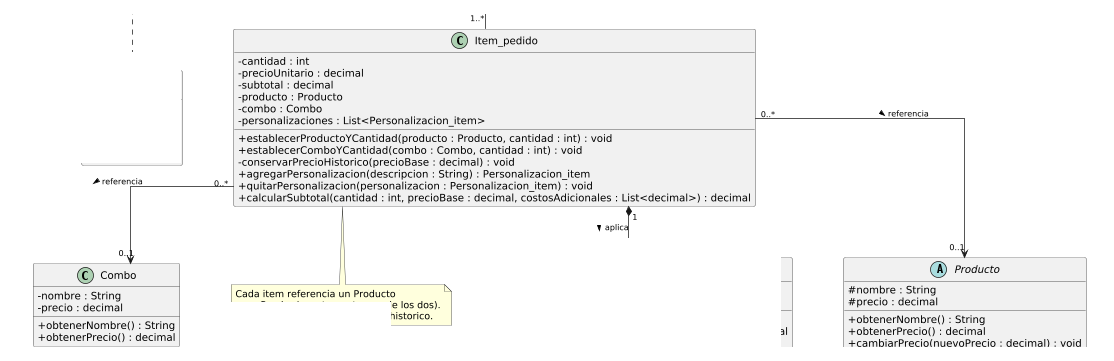
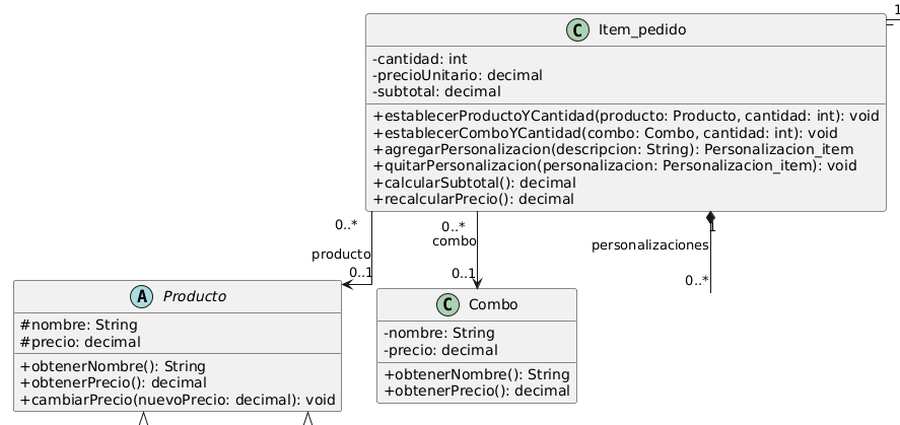
feat: agrego diagrama de clases final, anexos de pilares POO y happy path global

diff --git a/anexos/analisis-funcional/happy-path-global.md b/anexos/analisis-funcional/happy-path-global.md
@@ -12,12 +12,13 @@
 
 - UsuarioMostrador
 - UsuarioCocina
-- SistemaPedidos
+- ServicioPedidos
 - PantallaCocina
 - ProcesadorPago
 - Pedido
 - Item_pedido
-- Producto (ProductoPreparado)
+- ProductoPreparado (subclase de Producto)
+- ProductoEnvasado (subclase de Producto)
 - Combo
 - Personalizacion_item
 - Pago
@@ -25,6 +26,7 @@
 - Historial_cambio_pedido
 - Estado_pedido
 - Metodo_pago
+- Tipo_movimiento
 
 ---
 
@@ -39,46 +41,54 @@ INICIO Sistema de Pedidos - Happy Path Global
 
 // Un cliente llega al mostrador y el usuario de mostrador abre un pedido nuevo.
 UsuarioMostrador mostrador = nuevo UsuarioMostrador("Laura", "lparedes", "hash123", verdadero, 2)
-SistemaPedidos sistema = nuevo SistemaPedidos()
+ServicioPedidos servicio = nuevo ServicioPedidos()
 PantallaCocina pantallaCocina = nuevo PantallaCocina()
 ProcesadorPago procesador = nuevo ProcesadorPago()
 
-// El sistema genera el número único y registra la fecha y hora (RF6).
-Pedido pedido = sistema.iniciarNuevoPedido()
-numeroPedido = 1042            // número único asignado por el sistema
-fechaHora = fechaHoraActual    // fecha y hora de registro
+// El sistema crea el pedido, genera el número único y registra la fecha y hora (RF6).
+Pedido pedido = servicio.iniciarNuevoPedido()
+numeroPedido = 1042                // número único generado por el servicio
+pedido.asignarIdentificador(numeroPedido, fechaHoraActual)
 
 // El cliente pide un nombre para el llamado al retirar.
-sistema.ingresarReferenciaRetiro("Carla")
+servicio.ingresarReferenciaRetiro("Carla")
+pedido.asignarReferenciaRetiro("Carla")
 
 // El cliente elige una hamburguesa (producto preparado) y un combo; el combo usa su precio propio (RF1).
 ProductoPreparado hamburguesa = nuevo ProductoPreparado("Hamburguesa completa", 5500.00, 12)
 Combo comboFamiliar = nuevo Combo("Combo familiar", 14000.00)
-sistema.seleccionarProducto(hamburguesa, 1)
-sistema.seleccionarCombo(comboFamiliar, 1)
+servicio.seleccionarProducto(hamburguesa, 1)
+servicio.seleccionarCombo(comboFamiliar, 1)
+Item_pedido itemHamburguesa = pedido.agregarItem(hamburguesa, 1)
+Item_pedido itemCombo = pedido.agregarItemCombo(comboFamiliar, 1)
 
 // La hamburguesa se pide con un ingrediente extra, que suma un costo adicional.
-sistema.ingresarPersonalizacion("Extra queso")
+servicio.ingresarPersonalizacion("Extra queso")
+Personalizacion_item extra = itemHamburguesa.agregarPersonalizacion("Extra queso")
+costoExtra = extra.calcularCosto()
 
 // Cada ítem calcula su subtotal y el pedido recalcula el total.
-total = pedido.obtenerTotal()
+itemHamburguesa.calcularSubtotal()
+itemCombo.calcularSubtotal()
+total = pedido.actualizarTotal()
 
 // El cliente prefiere pagar por transferencia: se valida el medio antes de cobrar (RF8).
 medio = Metodo_pago.TRANSFERENCIA
 medioValido = procesador.validarMedioPago(medio)
 SI medioValido ENTONCES
+    cobroAprobado = procesador.procesarCobro(medio, total)
     Pago pago = nuevo Pago(total, medio, fechaHoraActual)
-    cobroAprobado = pago.registrarCobro(medio, total)
-    pedido.asociarPago(pago)
+    pago.registrarCobro(medio, total)
+    Historial_pago historialPago = nuevo Historial_pago()
+    historialPago.registrarMovimiento(pago, Tipo_movimiento.COBRO_INICIAL, total, "Cobro del pedido", mostrador)
 FIN SI
 
-// El pedido queda registrado como RECIBIDO y se envía a la pantalla de Cocina (RF2).
-listaItems = ítems cargados en el pedido (hamburguesa y combo)
-registrado = pedido.registrarPedido(numeroPedido, fechaHora, "Carla", listaItems, total, pago)
-estadoActual = Estado_pedido.RECIBIDO
-pantallaCocina.enviarCabeceraPedido(numeroPedido, fechaHora, "Carla")
-pantallaCocina.enviarDetallePedido(listaItems, total)
-confirmado = pantallaCocina.informarPedidoConfirmado(numeroPedido)
+// El pedido queda confirmado en estado RECIBIDO y se envía a la pantalla de Cocina (RF2).
+confirmado = servicio.confirmarPedido(medio)
+estadoActual = pedido.obtenerEstado()          // Estado_pedido.RECIBIDO
+pantallaCocina.enviarCabeceraPedido(numeroPedido, fechaHoraActual, "Carla")
+pantallaCocina.enviarDetallePedido(pedido.obtenerDetalle(), total)
+pantallaCocina.informarPedidoConfirmado(numeroPedido)
 
 // ============================================================
 // CU2 - Modificar Pedido (el pedido sigue en estado RECIBIDO)
@@ -88,18 +98,21 @@ confirmado = pantallaCocina.informarPedidoConfirmado(numeroPedido)
 // Solo se puede modificar mientras el estado es RECIBIDO.
 SI estadoActual == Estado_pedido.RECIBIDO ENTONCES
     mostrador.modificarPedido(pedido)
-    Producto bebida = nuevo ProductoEnvasado("Gaseosa 500 cc", 1800.00, fechaElaboracion, fechaVencimiento)
+    servicio.modificarPedido(numeroPedido)
+    pedido.modificar()
+
+    ProductoEnvasado bebida = nuevo ProductoEnvasado("Gaseosa 500 cc", 1800.00, fechaElaboracion, fechaVencimiento)
     pedido.agregarItem(bebida, 1)
 
     // El sistema recalcula el total y obtiene la diferencia contra lo ya abonado (RF8).
-    totalNuevo = pedido.obtenerTotal()
+    totalNuevo = pedido.actualizarTotal()
     diferencia = pago.calcularDiferencia(totalNuevo)
 
     // La diferencia es a favor del negocio: se cobra y queda registrada para auditoría.
     SI diferencia > 0 ENTONCES
         procesador.validarMedioPago(Metodo_pago.EFECTIVO)
-        pago.registrarCobro(Metodo_pago.EFECTIVO, diferencia)
-        Historial_pago historialPago = nuevo Historial_pago()
+        procesador.procesarCobro(Metodo_pago.EFECTIVO, diferencia)
+        pago.registrarCobroAdicional(Metodo_pago.EFECTIVO, diferencia)
         historialPago.registrarMovimiento(pago, Tipo_movimiento.AJUSTE, diferencia, "Se agregó una bebida", mostrador)
     FIN SI
 
@@ -114,17 +127,27 @@ FIN SI
 
 // Cocina toma el pedido y empieza a prepararlo: pasa de RECIBIDO a EN_PREPARACION (RF3).
 UsuarioCocina cocina = nuevo UsuarioCocina("Mario", "mrios", "hash456", verdadero, "Parrilla")
-cocina.comenzarPreparacion(pedido)
-hamburguesa.iniciarPreparacion()
+transicionValida = pedido.validarTransicion(Estado_pedido.EN_PREPARACION, cocina)
+SI transicionValida ENTONCES
+    servicio.solicitarCambioEstado(numeroPedido, Estado_pedido.EN_PREPARACION, cocina)
+    cocina.iniciarPreparacion(pedido)
+    pedido.cambiarEstado(Estado_pedido.EN_PREPARACION)
+    historialCambios.registrarCambioEstado(pedido, Estado_pedido.RECIBIDO, Estado_pedido.EN_PREPARACION, cocina)
+    hamburguesa.iniciarPreparacion()
+FIN SI
 
 // Cuando termina la elaboración, Cocina lo marca como LISTO.
 cocina.marcarPedidoListo(pedido)
+pedido.cambiarEstado(Estado_pedido.LISTO)
+historialCambios.registrarCambioEstado(pedido, Estado_pedido.EN_PREPARACION, Estado_pedido.LISTO, cocina)
 
 // El usuario de mostrador llama a "Carla", le entrega el pedido y lo marca como ENTREGADO.
 mostrador.marcarComoEntregado(pedido)
+pedido.cambiarEstado(Estado_pedido.ENTREGADO)
+historialCambios.registrarCambioEstado(pedido, Estado_pedido.LISTO, Estado_pedido.ENTREGADO, mostrador)
 
 // Estado final del sistema: el pedido queda guardado con todo su historial, pagos y cambios.
-Retornar Estado_pedido.ENTREGADO
+Retornar pedido.obtenerEstado()                // Estado_pedido.ENTREGADO
 
 FIN
 ```
@@ -135,6 +158,6 @@ FIN
 
 | Bloque | Caso de uso | Clases involucradas | Diagrama de secuencia de referencia |
 |--------|-------------|---------------------|-------------------------------------|
-| Registro del pedido, cobro y envío a Cocina | CU1 | UsuarioMostrador, SistemaPedidos, Pedido, Item_pedido, Producto, Combo, Personalizacion_item, Pago, ProcesadorPago, PantallaCocina | [Secuencia - Tomar Pedido](../../diagramas/05-diagramas-secuencia/05-secuencia-tomar-pedido-registro-de-pedido-01.png) |
-| Modificación del pedido, cobro de la diferencia y registro de cambios | CU2 | UsuarioMostrador, Pedido, Item_pedido, Producto, Pago, ProcesadorPago, Historial_pago, Historial_cambio_pedido | [Secuencia - Modificar Pedido](../../diagramas/05-diagramas-secuencia/05-secuencia-modificar-pedido-modificacion-recibido-02.png) |
-| Preparación, listo y entrega | CU4 | UsuarioCocina, UsuarioMostrador, Pedido, ProductoPreparado, Estado_pedido | [Secuencia - Cambiar Estado de Pedido](../../diagramas/05-diagramas-secuencia/05-secuencia-cambiar-estado-pedido-avance-preparacion-04.png) |
+| Registro del pedido, cobro y envío a Cocina | CU1 | UsuarioMostrador, ServicioPedidos, Pedido, Item_pedido, ProductoPreparado, Combo, Personalizacion_item, Pago, Historial_pago, ProcesadorPago, PantallaCocina | [Secuencia - Tomar Pedido](../../diagramas/05-diagramas-secuencia/05-secuencia-tomar-pedido-registro-de-pedido-01.png) |
+| Modificación del pedido, cobro de la diferencia y registro de cambios | CU2 | UsuarioMostrador, ServicioPedidos, Pedido, ProductoEnvasado, Pago, ProcesadorPago, Historial_pago, Historial_cambio_pedido | [Secuencia - Modificar Pedido](../../diagramas/05-diagramas-secuencia/05-secuencia-modificar-pedido-modificacion-recibido-02.png) |
+| Preparación, listo y entrega | CU4 | UsuarioCocina, UsuarioMostrador, ServicioPedidos, Pedido, ProductoPreparado, Estado_pedido, Historial_cambio_pedido | [Secuencia - Cambiar Estado de Pedido](../../diagramas/05-diagramas-secuencia/05-secuencia-cambiar-estado-pedido-avance-preparacion-04.png) |

diff --git a/anexos/analisis-funcional/pilares-poo.md b/anexos/analisis-funcional/pilares-poo.md
@@ -10,7 +10,7 @@ Este anexo analiza cómo el diagrama de clases final del Sistema de Pedidos ([ve
 
 **Ejemplo 1 — Pedido:**
 
-`Pedido` declara `total` y `items` como atributos privados y mantiene `actualizarTotal(subtotal)` como método privado. Hacia afuera solo expone `agregarItem`, `agregarItemCombo` y `obtenerTotal()`. Ninguna otra clase puede fijar el total a mano: el valor se recalcula siempre que cambia un ítem. Esto protege el RF1, que exige que el precio total se recalcule de forma precisa al registrar el pedido, y evita que `UsuarioMostrador` o la pantalla guarden un total que no coincide con la suma de los subtotales.
+`Pedido` declara todos sus atributos como privados (`fechaHora`, `numeroPedido`, `referenciaRetiro`, `estado`, `prioritario` y `total`). Hacia afuera solo expone métodos públicos que controlan cada cambio: `agregarItem`, `agregarItemCombo`, `actualizarTotal()`, `priorizar()`, `validarTransicion(nuevoEstado, actor)` y `cambiarEstado(nuevoEstado)`. Ninguna otra clase puede fijar el total ni el estado a mano: el total se recalcula con `actualizarTotal()` cuando cambia un ítem, y el estado solo cambia si `validarTransicion` lo permite. Esto protege el RF1, que exige que el precio total se recalcule de forma precisa al registrar el pedido, y evita que `UsuarioMostrador`, `UsuarioCocina` o el `ServicioPedidos` dejen un pedido con un total que no coincide con la suma de los subtotales o con un estado que salta pasos del flujo.
 
 ![Encapsulamiento - Ejemplo 1](../../diagramas/01-diagrama-clases/capturas-pilares/poo-encapsulamiento-ejemplo-1.png)
 
@@ -26,15 +26,15 @@ Este anexo analiza cómo el diagrama de clases final del Sistema de Pedidos ([ve
 
 **Definición:** La herencia permite que una clase (subclase) reutilice los atributos y métodos de otra más general (superclase) y agregue solo lo que la distingue.
 
-**Ejemplo 1 — Producto → ProductoPreparado:**
+**Ejemplo 1 — Producto → ProductoPreparado (y ProductoEnvasado):**
 
 `ProductoPreparado` hereda de la clase abstracta `Producto` los atributos `nombre` y `precio` y los métodos `obtenerNombre()`, `obtenerPrecio()` y `cambiarPrecio(nuevoPrecio)`. Solo agrega `tiempoPreparacion` e `iniciarPreparacion()`. La otra subclase, `ProductoEnvasado`, agrega `fechaElaboracion` y `fechaVencimiento`. La jerarquía es correcta porque todos los productos se venden con nombre y precio, pero se diferencian en cómo se obtienen: los preparados requieren elaboración en cocina y los envasados vienen listos.
 
 ![Herencia - Ejemplo 1](../../diagramas/01-diagrama-clases/capturas-pilares/poo-herencia-ejemplo-1.png)
 
-**Ejemplo 2 — Usuario → UsuarioMostrador:**
+**Ejemplo 2 — Usuario → UsuarioMostrador (UsuarioCocina y UsuarioEncargado):**
 
-`UsuarioMostrador` hereda de `Usuario` las credenciales (`nombre`, `usuario`, `passwordHash`, `activo`) y el método `autentificar`, y agrega `numeroCaja` junto con `registrarPedido()`, `modificarPedido(pedido)` y `marcarComoEntregado(pedido)`. `UsuarioCocina` y `UsuarioEncargado` heredan de la misma superclase. Lo que comparten es la identidad del personal que accede al sistema, y cada rol suma las operaciones que le corresponden.
+`UsuarioMostrador` hereda de `Usuario` las credenciales (`nombre`, `usuario`, `passwordHash`, `activo`) y el método `autentificar`, y agrega `numeroCaja` junto con `registrarPedido()`, `modificarPedido(pedido)` y `marcarComoEntregado(pedido)`. `UsuarioCocina` (`estacionTrabajo`, `iniciarPreparacion(pedido)`, `marcarPedidoListo(pedido)`) y `UsuarioEncargado` (`claveSupervision`, `autorizarCancelacion()`, `validarClaveSupervision(clave)`) heredan de la misma superclase. Lo que comparten es la identidad del personal que accede al sistema, y cada rol suma las operaciones que le corresponden.
 
 ![Herencia - Ejemplo 2](../../diagramas/01-diagrama-clases/capturas-pilares/poo-herencia-ejemplo-2.png)
 
@@ -44,15 +44,15 @@ Este anexo analiza cómo el diagrama de clases final del Sistema de Pedidos ([ve
 
 **Definición:** El polimorfismo permite que objetos de distintas clases respondan al mismo mensaje, cada uno a su manera, de modo que quien los usa no necesita conocer su clase concreta.
 
-**Ejemplo 1 — obtenerPrecio() en Producto vs Combo:**
+**Ejemplo 1 — obtenerPrecio() en Producto vs Combo (con Item_pedido):**
 
-Tanto `Producto` como `Combo` responden a `obtenerNombre()` y `obtenerPrecio()`, y `Item_pedido` los usa de la misma forma, ya que referencia uno u otro (exactamente uno de los dos). El comportamiento difiere: `Producto` devuelve su precio base, mientras que `Combo` devuelve su precio propio, que según el RF1 no es la suma de sus partes. En este diagrama `Combo` no hereda de `Producto`, por lo que se trata de polimorfismo por contrato común y no por jerarquía. Una mejora futura sería extraer una interfaz compartida.
+Tanto `Producto` como `Combo` responden a `obtenerNombre()` y `obtenerPrecio()`, y `Item_pedido` los usa de la misma forma, ya que referencia uno u otro (multiplicidad 0..1 hacia cada uno, y exactamente uno de los dos por ítem). El comportamiento difiere: `Producto` devuelve su precio base, mientras que `Combo` devuelve su precio propio, que según el RF1 no es la suma de sus partes. `Item_pedido` lo refleja con `establecerProductoYCantidad` y `establecerComboYCantidad`, y `Pedido` con `agregarItem` y `agregarItemCombo`. En este diagrama `Combo` no hereda de `Producto`, por lo que se trata de polimorfismo por contrato común (mismos mensajes, respuesta propia de cada clase) y no por jerarquía. Una mejora futura sería extraer una interfaz compartida.
 
 ![Polimorfismo - Ejemplo 1](../../diagramas/01-diagrama-clases/capturas-pilares/poo-polimorfismo-ejemplo-1.png)
 
-**Ejemplo 2 — autentificar() y el atributo usuario : Usuario en Auditoria_pedido:**
+**Ejemplo 2 — el parámetro Usuario en Auditoria_pedido.registrarAccion() y Pedido.validarTransicion():**
 
-`Auditoria_pedido`, `Historial_cambio_pedido` e `Historial_pago` guardan al responsable de la acción como un `Usuario`. En ese atributo puede haber un `UsuarioMostrador`, un `UsuarioCocina` o un `UsuarioEncargado`, y las tres clases de registro funcionan igual sin saber de qué subclase se trata, porque todos comparten el tipo `Usuario`. Así, el mismo método `registrarAccion(pedido, usuario, accion, fechaHora)` sirve para una cancelación iniciada por el mostrador o por el encargado.
+`Auditoria_pedido.registrarAccion(pedido, responsable: Usuario, autorizante: UsuarioEncargado)` y `Pedido.validarTransicion(nuevoEstado, actor: Usuario)` reciben un `Usuario` sin importar su subclase. Allí puede llegar un `UsuarioMostrador`, un `UsuarioCocina` o un `UsuarioEncargado`, y el mismo método responde según quién es el actor: la validación permite o rechaza la transición de estado según el rol, y la auditoría guarda a quien realizó la acción. Es polimorfismo de subtipo: un único método sirve para las tres subclases sin conocer cuál es.
 
 ![Polimorfismo - Ejemplo 2](../../diagramas/01-diagrama-clases/capturas-pilares/poo-polimorfismo-ejemplo-2.png)
 
@@ -64,12 +64,12 @@ Tanto `Producto` como `Combo` responden a `obtenerNombre()` y `obtenerPrecio()`,
 
 **Ejemplo 1 — Producto:**
 
-`Producto` es una clase abstracta que modela la idea de artículo del catálogo con solo `nombre` y `precio`, y oculta si se trata de algo preparado en cocina o de algo envasado. `Item_pedido` solo necesita pedirle `obtenerNombre()` y `obtenerPrecio()` para calcular su subtotal; no le importa cómo se elaboró el artículo. Esa simplificación evita que la lógica del pedido dependa de cada tipo de producto.
+`Producto` es una clase abstracta que modela la idea de artículo del catálogo con solo `nombre` y `precio`, y oculta si se trata de algo preparado en cocina o de algo envasado. `Item_pedido` solo necesita pedirle `obtenerNombre()` y `obtenerPrecio()` para calcular su subtotal con `calcularSubtotal()`; no le importa cómo se elaboró el artículo. Esa simplificación evita que la lógica del pedido dependa de cada tipo de producto.
 
 ![Abstracción - Ejemplo 1](../../diagramas/01-diagrama-clases/capturas-pilares/poo-abstraccion-ejemplo-1.png)
 
 **Ejemplo 2 — ProcesadorPago:**
 
-`ProcesadorPago` oculta cómo se valida y se procesa un cobro y expone solo tres operaciones: `validarMedioPago(medioPago)`, `procesarCobro(medioPago, monto)` y `obtenerMotivoRechazo()`. `Pago` las usa sin saber qué pasa detrás, de modo que un cambio en la forma de cobrar (por ejemplo, agregar un nuevo medio más adelante) no obliga a modificar a las clases que colaboran con ella.
+`ProcesadorPago` oculta cómo se valida y se procesa un cobro y expone solo tres operaciones: `validarMedioPago(medioPago)`, `procesarCobro(medioPago, monto)` y `obtenerMotivoRechazo()`. `ServicioPedidos` las usa al confirmar un pedido sin saber qué pasa detrás, de modo que un cambio en la forma de cobrar (por ejemplo, agregar un nuevo medio más adelante) no obliga a modificar a las clases que colaboran con ella.
 
 ![Abstracción - Ejemplo 2](../../diagramas/01-diagrama-clases/capturas-pilares/poo-abstraccion-ejemplo-2.png)

diff --git a/anexos/analisis-funcional/diagrama-clases-final.md b/anexos/analisis-funcional/diagrama-clases-final.md
@@ -1,0 +1,71 @@
+# Diagrama de Clases Final - Sistema de Pedidos
+
+---
+
+## 1. Versión del Diagrama
+
+| Versión | Casos de uso integrados | Fecha |
+|---------|------------------------|-------|
+| v1 | CU1 | [completar fecha] |
+| v2 | CU1, CU2, CU3 | [completar fecha] |
+| v3 | CU1, CU2, CU3, CU4, CU5 | 2026-11-11 |
+
+---
+
+## 2. Diagrama
+
+![Diagrama de Clases Final](../../diagramas/01-diagrama-clases/06-clases-diagrama-final.png)
+
+---
+
+## 3. Clases del Sistema
+
+| Clase | Responsabilidad (según tarjeta CRC) | Aparece en CU |
+|-------|-------------------------------------|---------------|
+| Usuario | Autentificar el acceso al sistema | CU1, CU2, CU3, CU4, CU5 |
+| UsuarioMostrador | Registrar y modificar pedidos, y marcarlos como entregados | CU1, CU2, CU3, CU4, CU5 |
+| UsuarioCocina | Comenzar preparaciones y marcar pedidos como listos | CU4, CU5 |
+| UsuarioEncargado | Autorizar cancelaciones y devoluciones manuales | CU3 |
+| Pedido | Agregar, modificar y cancelar la orden; cambiar mi estado operativo y gestionar la prioridad del pedido | CU1, CU2, CU3, CU4, CU5 |
+| Item_pedido | Calcular mi subtotal y recalcular el precio si sufro modificaciones; agregar o quitar personalizaciones | CU1, CU2 |
+| Personalizacion_item | Calcular el costo de la modificación que represento | CU1, CU2 |
+| Producto | Proveer el precio base y el nombre para la venta comercial; cambiar mi precio en el catálogo general | CU1, CU2 |
+| ProductoPreparado | Iniciar la preparación e indicar su duración | CU1, CU2 (como Producto) |
+| ProductoEnvasado | Proveer información de caducidad | CU1, CU2 (como Producto) |
+| Combo | Agregar y eliminar combos del catálogo | CU1 |
+| Pago | Registrar el cobro efectuado; calcular diferencias de dinero asociadas a la transacción | CU1, CU2 |
+| Historial_pago | Registrar los movimientos de dinero | CU2 |
+| Auditoria_pedido | Registrar las acciones generales sobre la orden | CU3 |
+| Historial_cambio_pedido | Registrar alteraciones específicas de campos | CU2, CU4 |
+| ServicioPedidos | Sin tarjeta CRC. Según las secuencias de A3: unifica la coordinación de los CU1 a CU5 (carga, modificación, cancelación, cambio de estado y consulta de pedidos), genera el número de pedido y notifica a Cocina | CU1, CU2, CU3, CU4, CU5 |
+| PantallaPedidos | Sin tarjeta CRC. Según las secuencias de A3: interfaz con la que operan mostrador, cocina y encargado para consultar y actualizar pedidos | CU1, CU2, CU3, CU4, CU5 |
+| PantallaCocina | Sin tarjeta CRC. Según la secuencia del CU1: recibe cabecera y detalle del pedido y confirma la recepción | CU1 |
+| ProcesadorPago | Sin tarjeta CRC. Según la secuencia del CU1: valida el medio de pago y procesa el cobro | CU1, CU2 |
+
+---
+
+## 4. Decisiones de Integración
+
+| Inconsistencia encontrada | Issue creada | Rama fix/ | Decisión tomada | Justificación |
+|--------------------------|--------------|-----------|-----------------|---------------|
+| La clase de servicio se llama SistemaPedidos en CU1 y ServicioPedidos en CU3 a CU5; la interfaz es InterfazPedido o PantallaPedidos | [completar link de la issue] | fix/[completar nombre de la rama] | Se unifica como ServicioPedidos (control) y PantallaPedidos (boundary) | Es el nombre usado en la mayoría de las secuencias, y el diagrama final lo muestra como una única clase de control que unifica los CU1 a CU5 |
+| Historial_cambio_pedido usa dos métodos distintos en CU2 y CU4 | [completar link de la issue] | fix/[completar nombre de la rama] | Se conservan `registrarCambioPedido` (campos) y `registrarCambioEstado` (estados) | Cada método registra un tipo distinto de cambio, y ambos coinciden con la tarjeta CRC |
+| Cliente tiene tarjeta CRC pero el CU1 decidió no modelarlo | [completar link de la issue] | fix/[completar nombre de la rama] | Cliente queda fuera del diagrama final | El RF6 excluye la ficha de cliente; el diagrama lo aclara con una nota |
+
+El resto de las inconsistencias detectadas (firmas de Auditoria_pedido, métodos de prioridad en Pedido, responsabilidad de validar el medio de pago, enumeración Tipo_movimiento, tarjetas CRC de las clases de control y métodos de UsuarioCocina y UsuarioEncargado) se gestionan con el mismo flujo. Para verificar la coherencia se comparó cada clase del diagrama final contra las tarjetas CRC y contra los participantes y mensajes de las cinco secuencias de A3.
+
+---
+
+## 5. Coherencia con Artefactos Previos
+
+**Coherencia con boceto inicial (A1):**
+
+El diagrama final parte de las clases del boceto de A1: `Pedido`, `Item_pedido`, `Producto` (abstracta) con sus subclases, `Combo`, `Personalizacion_item`, `Pago`, `Usuario` con sus tres subclases, los historiales y las enumeraciones `Estado_pedido` y `Metodo_pago`. Lo que cambió fue que se tipificaron los atributos, se agregaron visibilidades y multiplicidades, y se incorporaron `ServicioPedidos`, `PantallaPedidos`, `PantallaCocina` y `ProcesadorPago`, organizadas en los paquetes Dominio, Aplicacion y Presentacion e integracion, que el análisis de A3 mostró necesarias para coordinar la carga, notificar a Cocina y validar el cobro. `Cliente` se dejó afuera porque el RF6 excluye la ficha de cliente.
+
+**Coherencia con tarjetas CRC (A2):**
+
+Las responsabilidades de cada tarjeta se reflejan en los métodos del diagrama. Por ejemplo, la responsabilidad "Calcular mi subtotal" de `Item_pedido` es `calcularSubtotal`, la de "Cambiar mi estado" de `Pedido` es `cambiarEstado`, y la de "Registrar el cobro efectuado" de `Pago` es `registrarCobro`. Las colaboraciones de las tarjetas se convirtieron en relaciones, como `Pedido` con `Item_pedido` (composición) y `Pago` con `Metodo_pago` (dependencia). Los métodos que pedían las tarjetas de `Pedido` para gestionar la prioridad quedaron como `priorizar()` y `esPrioritario()`.
+
+**Coherencia con diagramas de secuencia (A3):**
+
+Los mensajes de las secuencias justifican los métodos de cada clase: `asignarReferenciaRetiro` y `registrarPedido` surgen de la secuencia de Tomar Pedido, y `calcularDiferencia` de la de Modificar Pedido. Las diferencias que aparecieron entre las secuencias (nombres de servicio e interfaz, firmas de métodos de los historiales) se registraron como issues y se resuelven en ramas `fix/` antes de actualizar el diagrama.

diff --git a/anexos/analisis-funcional/analisis_casos_uso.md b/anexos/analisis-funcional/analisis_casos_uso.md
@@ -5,3 +5,6 @@
 - [Caso de Uso 3 - Cancelar Pedido](./03-caso-de-uso-cancelar-pedido.md)
 - [Caso de Uso 4 - Cambiar Estado de Pedido](./04-caso-de-uso-cambiar-estado-de-pedido.md)
 - [Caso de Uso 5 - Consultar Pedidos Activos](./05-caso-de-uso-consultar-pedidos-activos.md)
+- [Diagrama de Clases Final - Sistema de Pedidos](./diagrama-clases-final.md)
+- [Los Cuatro Pilares del Paradigma Orientado a Objetos](./pilares-poo.md)
+- [Pseudocódigo - Happy Path Global del Sistema](./happy-path-global.md)

diff --git a/diagramas/01-diagrama-clases/diagramas_de_clases.md b/diagramas/01-diagrama-clases/diagramas_de_clases.md
@@ -14,3 +14,6 @@
     - [Diagrama de Clases - Cancelar Pedido](./03-clases-cancelar-pedido-03.png)
     - [Diagrama de Clases - Cambiar Estado de Pedido](./04-clases-cambiar-estado-pedido-04.png)
     - [Diagrama de Clases - Consultar Pedidos Activos](./05-clases-consultar-pedidos-activos-05.png)
+
+- Diagrama Final
+    - [Diagrama de Clases - Final Unificado](./06-clases-diagrama-final.png) ([fuente PlantUML](./06-clases-diagrama-final.puml))
